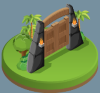
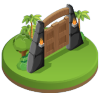
fix:merge issues

diff --git a/src/amusement/park/model/buildings/PoliceStation.java b/src/amusement/park/model/buildings/PoliceStation.java
@@ -3,7 +3,7 @@ package amusement.park.model.buildings;
 
 public class PoliceStation extends BasicBuilding {
     public PoliceStation() {
-        super("police_station.jpg", -1, 2,"PoliceStation");
+        super("entrance.jpg", -1, 2,"PoliceStation");
     }
 
 }
